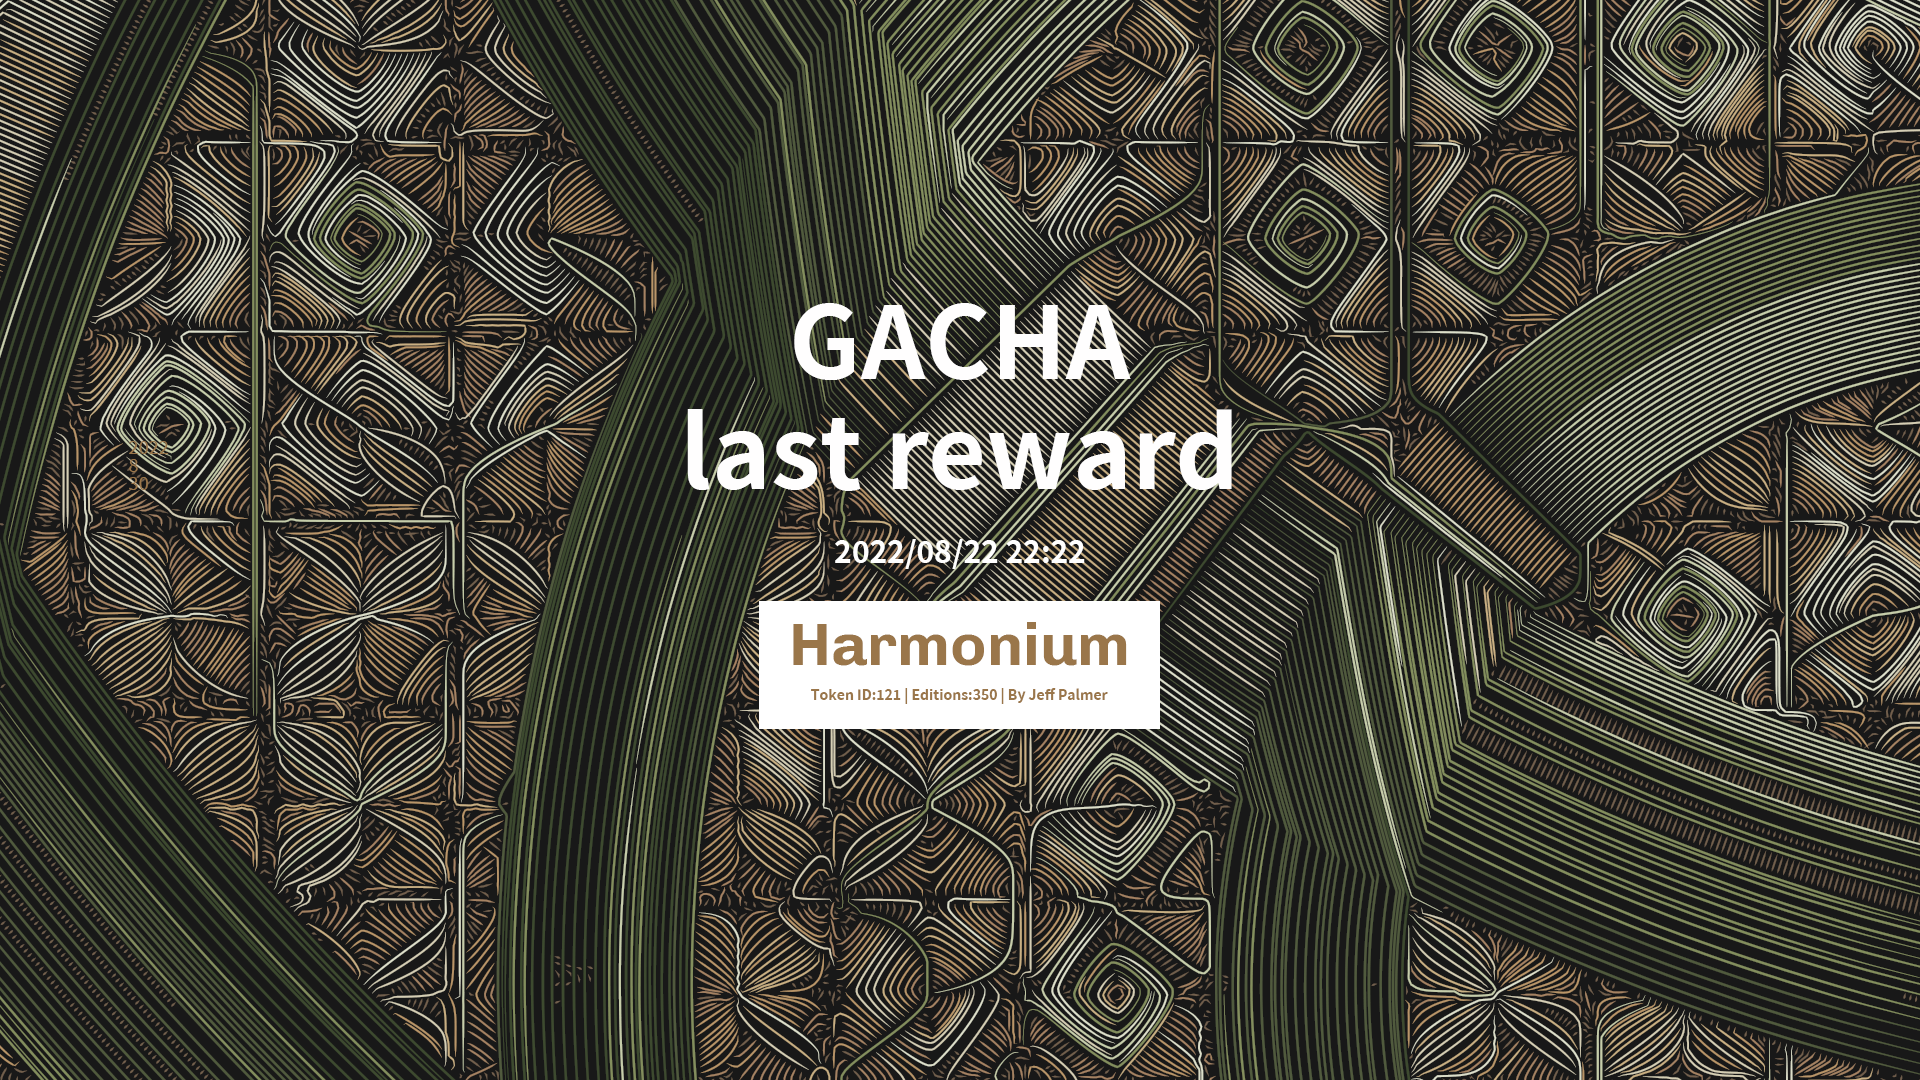
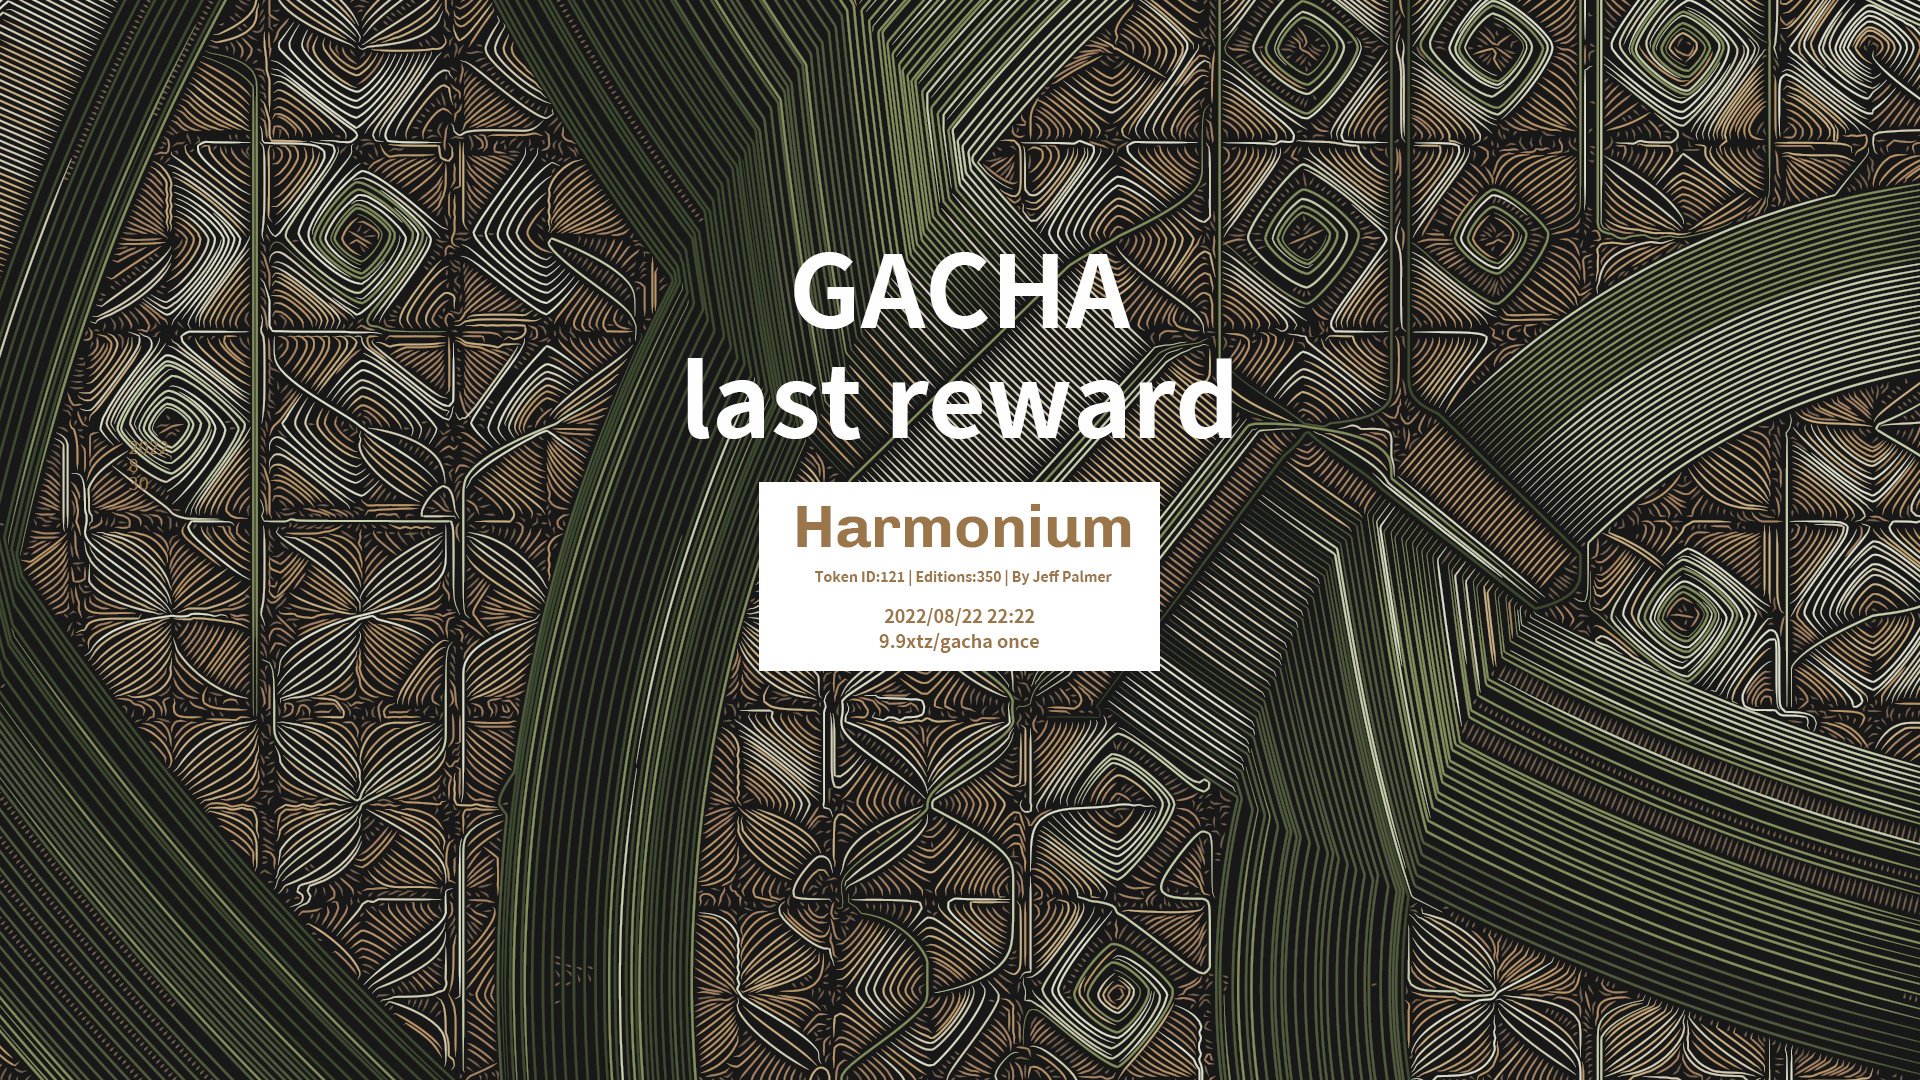
flinal
修改文字圖片

Changed region(s): [[0.3438, 0.2139, 0.6562, 0.6722]]

diff --git a/index.html b/index.html
@@ -187,7 +187,12 @@
         <section class="vol_bgcolor_bk vol_section_title">
           <div class="wrap">
             <h2><strong>GACHA</strong></h2>
-            <p>mint on <a href="https://www.akaswap.com/tz/tz1PaCaFf6cf6tL8vkVE71WELKuYXyoSG5C6" title="mint on akaSwap">akaSwap</a>. 
+            <p>
+              包含最後賞，收藏總成本221 xtz，市值275 xtz，19抽只要188 xtz。<br>
+              9.9 xtz以下:10張(52%)，
+              18 xtz以下:6張(31%)，
+              24 xtz以上:3張(15%)。
+            </p>
             <!-- <span class="alignright"><a href="demos/index.html" title="WebSlides Demos">View all &rsaquo;</a></span></p> -->
             <ul class="flexblock gallery">
               
@@ -257,7 +262,12 @@
         <section class="vol_bgcolor_bk vol_section_title">
           <div class="wrap">
             <h2><strong>GACHA</strong></h2>
-            <p>mint on <a href="https://www.akaswap.com/tz/tz1PaCaFf6cf6tL8vkVE71WELKuYXyoSG5C6" title="mint on akaSwap">akaSwap</a>. 
+            <p>
+              包含最後賞，收藏總成本221 xtz，市值275 xtz，19抽只要188 xtz。<br>
+              9.9 xtz以下:10張(52%)，
+              18 xtz以下:6張(31%)，
+              24 xtz以上:3張(15%)。
+            </p>
             <!-- <span class="alignright"><a href="demos/index.html" title="WebSlides Demos">View all &rsaquo;</a></span></p> -->
             <ul class="flexblock gallery">
               
@@ -328,7 +338,12 @@
         <section class="vol_bgcolor_bk vol_section_title">
           <div class="wrap">
             <h2><strong>GACHA</strong></h2>
-            <p>mint on <a href="https://www.akaswap.com/tz/tz1PaCaFf6cf6tL8vkVE71WELKuYXyoSG5C6" title="mint on akaSwap">akaSwap</a>. 
+            <p>
+              包含最後賞，收藏總成本221 xtz，市值275 xtz，19抽只要188 xtz。<br>
+              9.9 xtz以下:10張(52%)，
+              18 xtz以下:6張(31%)，
+              24 xtz以上:3張(15%)。
+            </p>
             <!-- <span class="alignright"><a href="demos/index.html" title="WebSlides Demos">View all &rsaquo;</a></span></p> -->
             <ul class="flexblock gallery">
               <li>
@@ -400,7 +415,12 @@
         <section class="vol_bgcolor_bk vol_section_title">
           <div class="wrap">
             <h2><strong>GACHA</strong></h2>
-            <p>mint on <a href="https://www.akaswap.com/tz/tz1PaCaFf6cf6tL8vkVE71WELKuYXyoSG5C6" title="mint on akaSwap">akaSwap</a>. 
+            <p>
+              包含最後賞，收藏總成本221 xtz，市值275 xtz，19抽只要188 xtz。<br>
+              9.9 xtz以下:10張(52%)，
+              18 xtz以下:6張(31%)，
+              24 xtz以上:3張(15%)。
+            </p>
             <!-- <span class="alignright"><a href="demos/index.html" title="WebSlides Demos">View all &rsaquo;</a></span></p> -->
             <ul class="flexblock gallery">
               <li>
